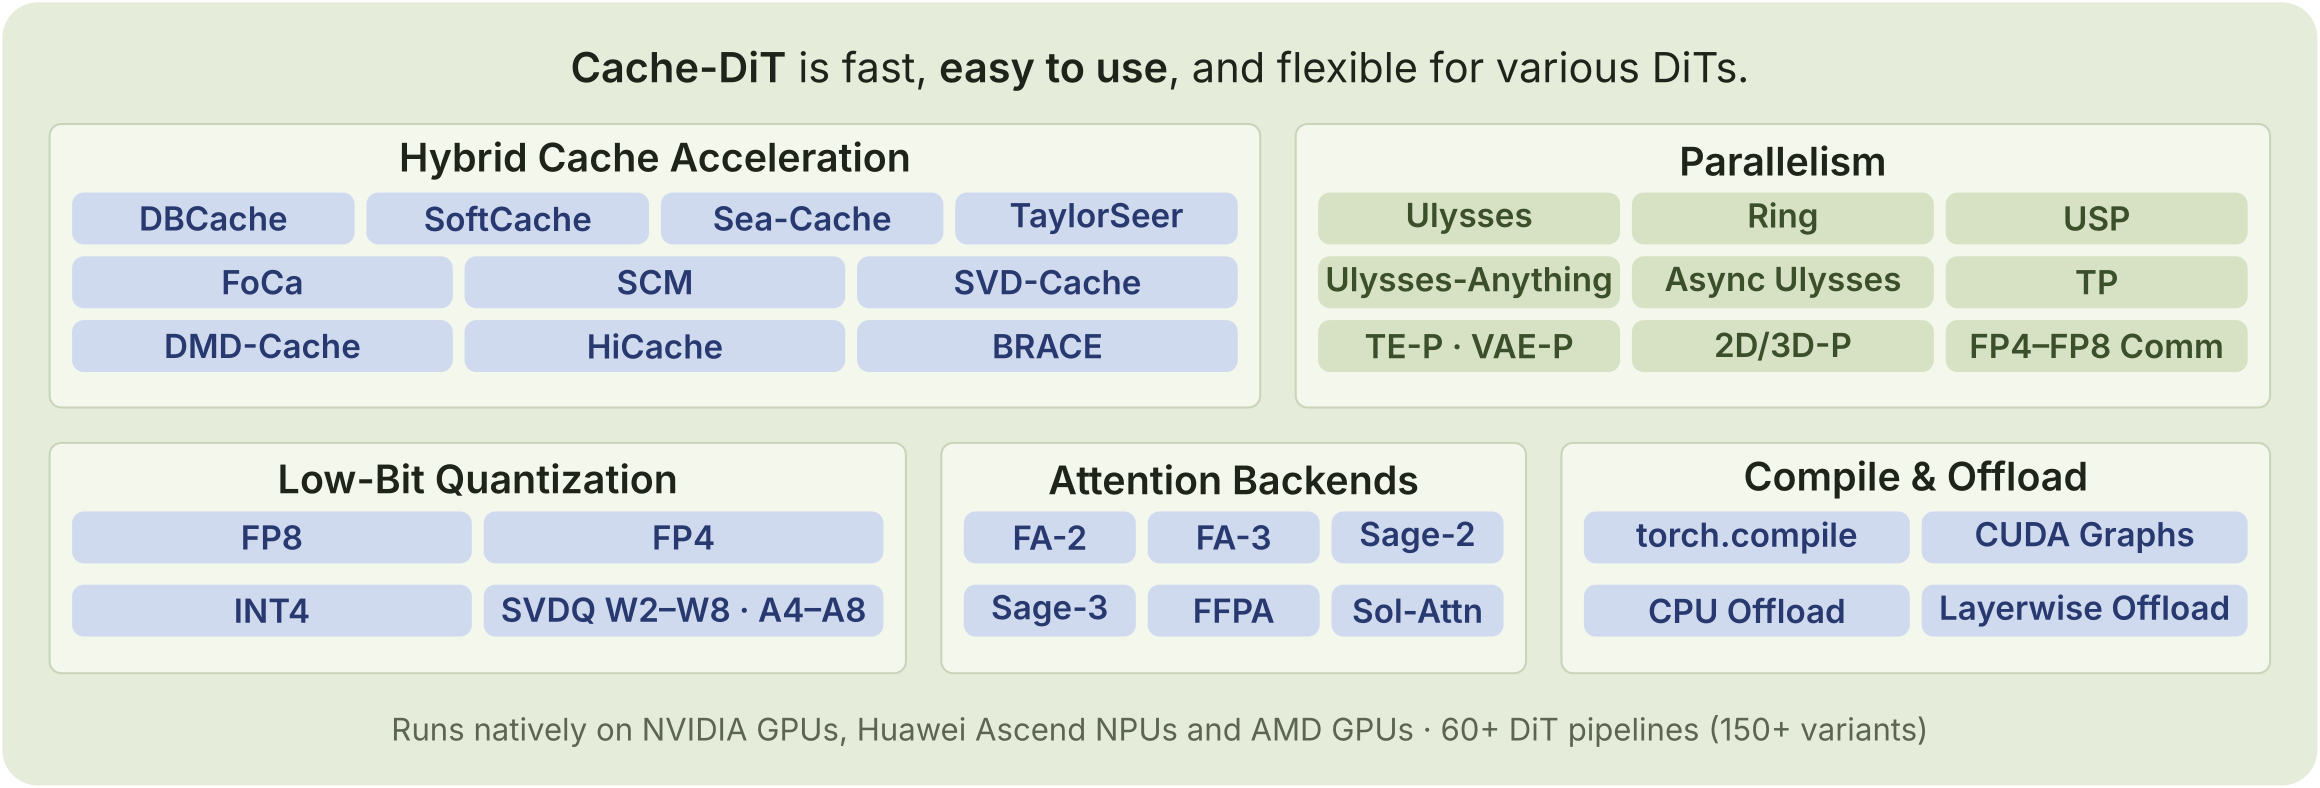
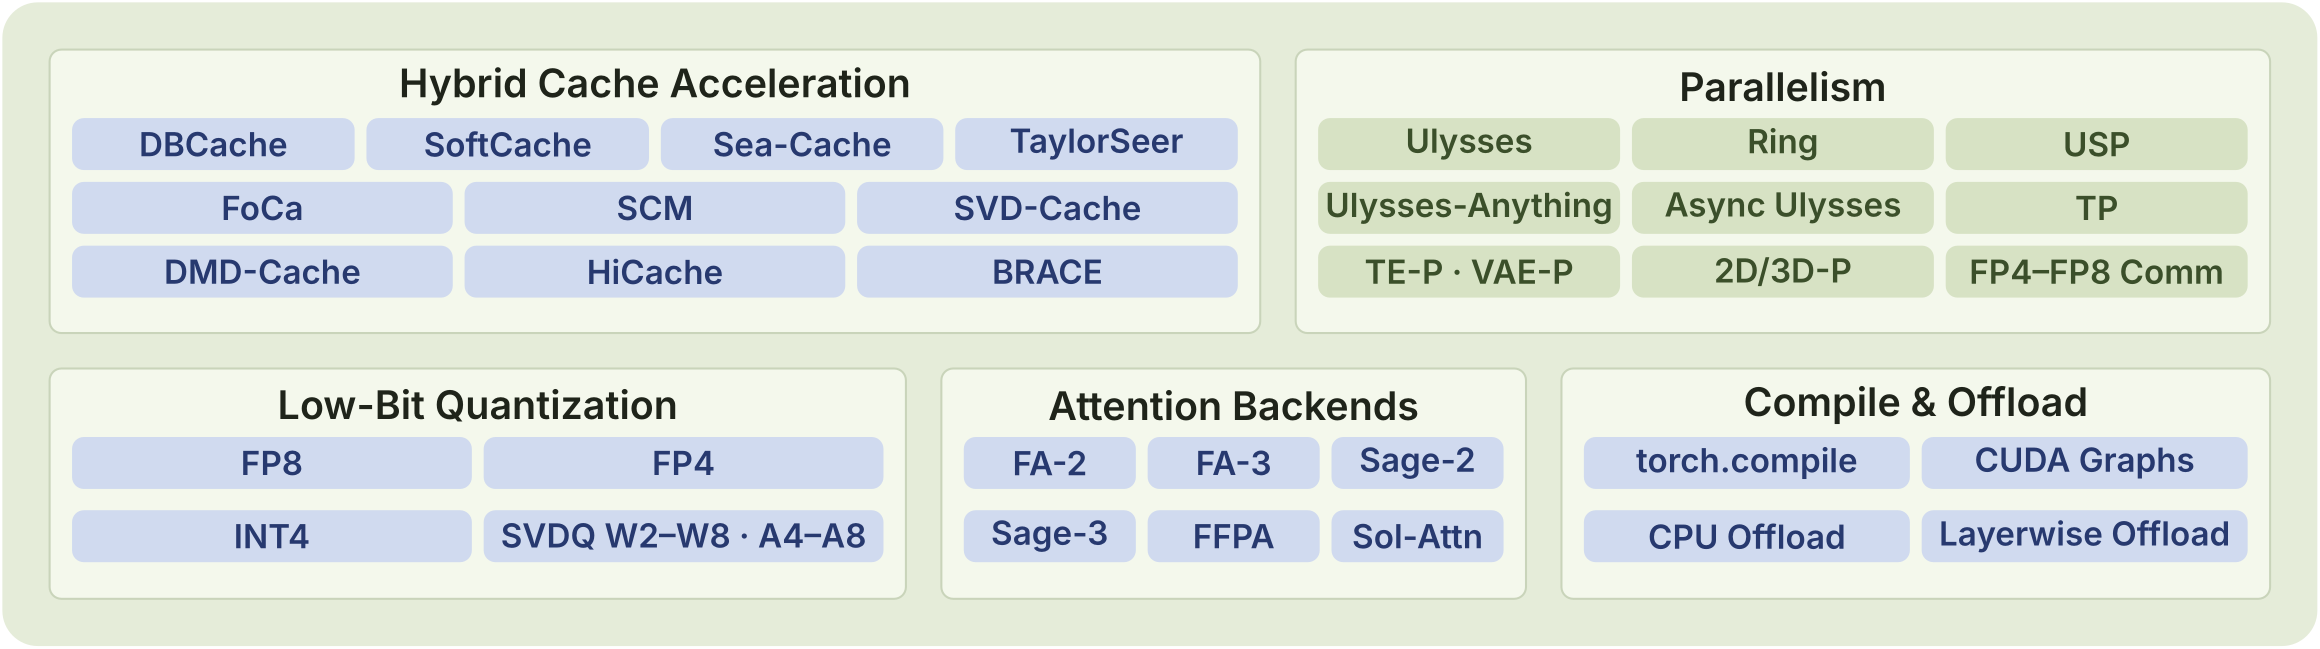
docs: strip the caption and footer from the architecture figure

diff --git a/docs/assets/tex/arch_v3.tex b/docs/assets/tex/arch_v3.tex
@@ -2,7 +2,7 @@
 % Source of docs/assets/arch_v3.png.
 % Build: xelatex arch_v3.tex
 %        pdftocairo -png -transp -r 300 -singlefile arch_v3.pdf arch_v3
-% Feature-overview card: tagline, panels of rounded pills, single-line footer.
+% Feature-overview card: panels of rounded pills on a transparent sage card.
 \usepackage{fontspec}
 \usepackage{tikz}
 \usetikzlibrary{arrows.meta, calc}
@@ -41,10 +41,9 @@
 
 \begin{document}
 \begin{tikzpicture}[x=1cm, y=1cm]
-  \path[use as bounding box] (-0.02,-0.02) rectangle (19.62,6.65);
-  \fill[bg, rounded corners=0.30cm] (0,0) rectangle (19.60,6.63);
+  \path[use as bounding box] (-0.02,0.53) rectangle (19.62,6.02);
+  \fill[bg, rounded corners=0.30cm] (0,0.55) rectangle (19.60,6.00);
 
-  \node[text=ink] at (9.80,6.05) {\fontsize{10}{12}\selectfont \textbf{Cache-DiT} is fast, \textbf{easy to use}, and flexible for various DiTs.};
 
   \panel{0.40}{3.20}{10.65}{5.60}
   \ptitle{5.525}{5.29}{Hybrid Cache Acceleration}
@@ -73,7 +72,6 @@
   \pillrow{2.10}{13.34}{2.86}{pillblue}{bluetext}{torch.compile, CUDA Graphs}
   \pillrow{1.48}{13.34}{2.86}{pillblue}{bluetext}{CPU Offload, Layerwise Offload}
 
-  \node[text=muted] at (9.80,0.46) {\fontsize{7.5}{9}\selectfont Runs natively on NVIDIA GPUs, Huawei Ascend NPUs and AMD GPUs \textperiodcentered\ 60+ DiT pipelines (150+ variants)};
 
 \end{tikzpicture}
 \end{document}

diff --git a/README.md b/README.md
@@ -15,6 +15,7 @@
 **Cache-DiT** is a PyTorch-native inference engine with [cache acceleration](https://cache-dit.readthedocs.io/en/latest/user_guide/CACHE_API/) (DBCache, TaylorSeers, FoCa, SCM, SVD-Cache, DMD-Cache, HiCache, BRACE, Sea-Cache, etc), [quantization](https://cache-dit.readthedocs.io/en/latest/user_guide/QUANTIZATION/) (FP8/FP4/INT4/SVDQ-W{**2,3,4,6,8**}-A{**4,6,8**}), [offload](https://cache-dit.readthedocs.io/en/latest/user_guide/OFFLOAD/), [parallelism](https://cache-dit.readthedocs.io/en/latest/user_guide/CONTEXT_PARALLEL/) (CP/TP/USP/TE-P/VAE-P/2D-P/3D-P) and [attention acceleration](https://cache-dit.readthedocs.io/en/latest/user_guide/ATTENTION/) (FA-2/3, sage-2/3, [⚡ffpa-attn](https://github.com/vipshop/ffpa-attn), sol-attn, etc) for various DiTs and runs natively on NVIDIA GPUs, Huawei Ascend NPUs and AMD GPUs. 
 
 <div align="center">
+  <i>Cache-DiT is fast, easy to use, and flexible for various DiTs.</i>
   <img src=docs/assets/arch_v3.png width=815px>
 </div>
 
